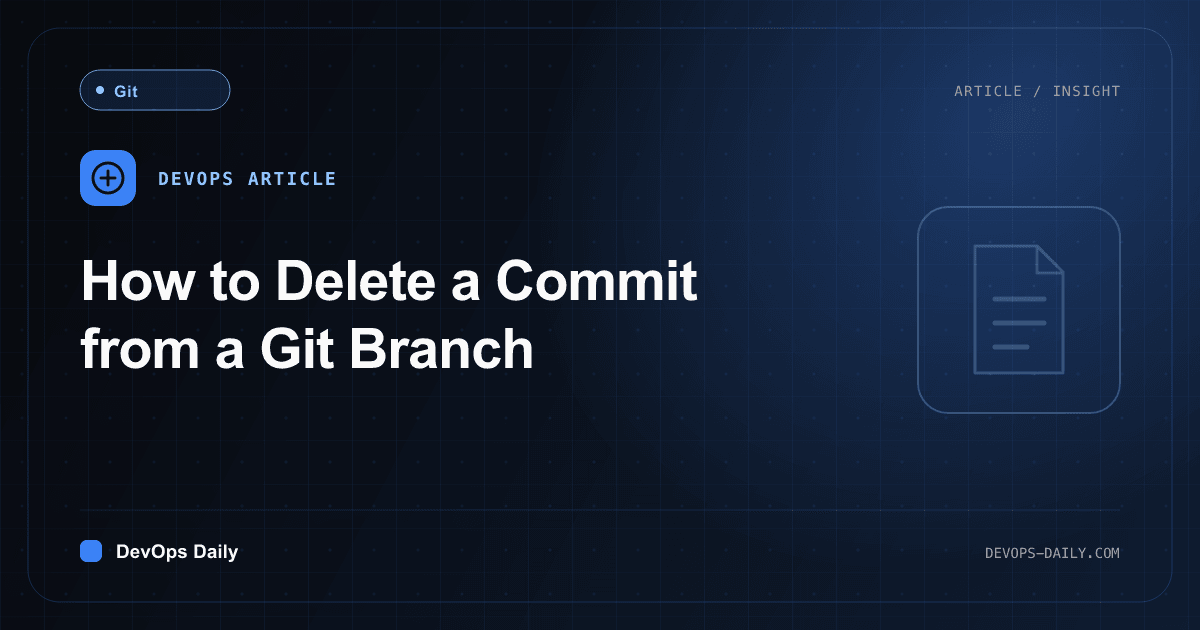
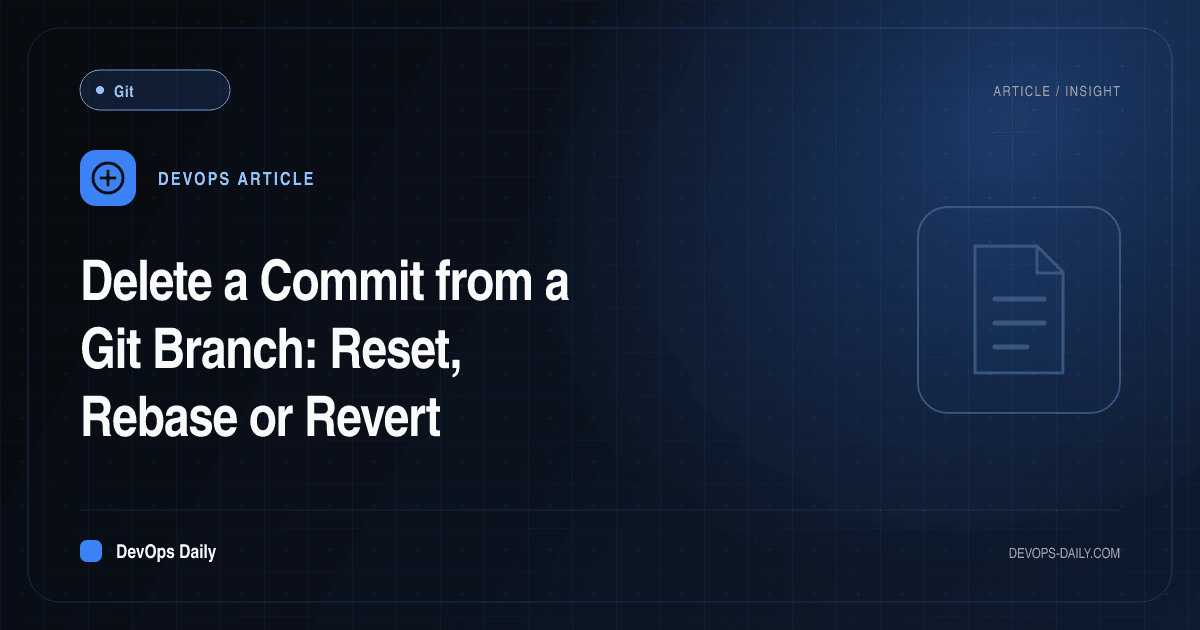
Answer-first titles and descriptions for low-click pages, and more internal links on top pages
Pages that rank on Bing at positions 4 to 8 but get under 1% clicks now say the
answer (the command or the verdict) in the title, the meta description and the
first paragraph. Comparisons get an optional seoTitle and relatedLinks. The
deployment strategies guide opens with the answer and its trade-off table, and
the top pages link to related posts, comparisons and simulators.

Claude-Session: https://claude.ai/code/session_01FRYkaYp9vFJjWBjAQdjnQ4

diff --git a/components/comparisons/comparison-page-client.tsx b/components/comparisons/comparison-page-client.tsx
@@ -1,5 +1,6 @@
 'use client';
 
+import Link from 'next/link';
 import { Badge } from '@/components/ui/badge';
 import { Card, CardContent, CardHeader, CardTitle } from '@/components/ui/card';
 import { Breadcrumb } from '@/components/breadcrumb';
@@ -121,6 +122,20 @@ export function ComparisonPageClient({ comparison, allComparisons }: ComparisonP
                 </p>
               ))}
             </div>
+            {comparison.relatedLinks && comparison.relatedLinks.length > 0 && (
+              <div className="mt-2 rounded-md border bg-card p-4">
+                <p className="text-sm font-medium text-foreground mb-2">Related on DevOps Daily</p>
+                <ul className="space-y-1 text-sm">
+                  {comparison.relatedLinks.map((link) => (
+                    <li key={link.href}>
+                      <Link href={link.href} className="text-primary hover:underline">
+                        {link.label}
+                      </Link>
+                    </li>
+                  ))}
+                </ul>
+              </div>
+            )}
           </section>
 
           {/* Section 4: Feature Comparison Table */}

diff --git a/lib/comparison-types.ts b/lib/comparison-types.ts
@@ -47,6 +47,8 @@ export interface Comparison {
   id: string;
   slug: string;
   title: string;
+  /** Search result title, when it should differ from the default "A vs B: Feature Comparison..." one. */
+  seoTitle?: string;
   description: string;
   category: string;
   tags: string[];
@@ -62,6 +64,8 @@ export interface Comparison {
   decisionMatrix: DecisionMatrixItem[];
   verdict: Verdict;
   relatedTags: string[];
+  /** Hand-picked links to related posts and simulators, shown after the introduction. */
+  relatedLinks?: { label: string; href: string }[];
   /** Campaign id on go.devops-daily.com for a comparison written for a sponsor. Counts views in the sponsor report. */
   sponsorCampaign?: string;
 }

diff --git a/app/comparisons/[slug]/page.tsx b/app/comparisons/[slug]/page.tsx
@@ -30,7 +30,9 @@ export async function generateMetadata({
 
   return detailPageMetadata({
     path: `/comparisons/${comparison.slug}`,
-    title: `${comparison.toolA.name} vs ${comparison.toolB.name}: Feature Comparison, Pros/Cons, and Verdict`,
+    title:
+      comparison.seoTitle ??
+      `${comparison.toolA.name} vs ${comparison.toolB.name}: Feature Comparison, Pros/Cons, and Verdict`,
     description: truncateMetaDescription(comparison.description),
     image: `/images/comparisons/${comparison.slug}-og.png`,
     imageAlt: `${comparison.toolA.name} vs ${comparison.toolB.name}`,

diff --git a/content/posts/deployment-strategies-guide.md b/content/posts/deployment-strategies-guide.md
@@ -6,7 +6,7 @@ category:
   slug: 'devops'
 date: '2025-11-17'
 publishedAt: '2025-11-17T09:00:00Z'
-updatedAt: '2026-09-27T09:00:00Z'
+updatedAt: '2026-10-11T09:00:00Z'
 readingTime: '12 min read'
 author:
   name: 'DevOps Daily Team'
@@ -23,11 +23,7 @@ tags:
   - Docker
 ---
 
-Deploying a new version of your application shouldn't feel like jumping off a cliff. Yet for many teams, every deployment brings anxiety: Will the new version work? What if users encounter bugs? How quickly can we roll back if something goes wrong?
-
-The way you deploy your application matters just as much as what you deploy. Different deployment strategies offer varying levels of risk, speed, and resource requirements. Some let you switch between versions instantly, while others gradually introduce changes to minimize impact. Understanding these strategies helps you choose the right approach for your specific needs.
-
-**TLDR**: This guide covers three core deployment strategies. Blue-green deployments run two identical environments and switch traffic between them for instant rollbacks. Canary deployments gradually roll out changes to a small subset of users before full deployment. Rolling deployments update instances one at a time to maintain availability throughout the process. Each strategy has distinct trade-offs in terms of cost, complexity, and risk mitigation.
+The three main deployment strategies are **blue-green**, **canary** and **rolling**. Blue-green runs two identical environments and switches all traffic at once, so rollback is instant. Canary sends a small share of traffic to the new version first and raises it step by step. Rolling replaces instances a few at a time. They differ in rollback speed, extra capacity and how many users a bad release reaches:
 
 | Trade-off                   | Blue-green                                                         | Canary                                                                       | Rolling                                                |
 | --------------------------- | ------------------------------------------------------------------ | ---------------------------------------------------------------------------- | ------------------------------------------------------ |
@@ -37,7 +33,15 @@ The way you deploy your application matters just as much as what you deploy. Dif
 | Users a bad release reaches | Everyone, until you switch back                                    | Only the canary share                                                        | The share of traffic on updated instances              |
 | What it needs               | A traffic switch, and database changes both versions can use       | Traffic splitting and metrics split by version                               | Old and new versions that can run side by side         |
 
-To watch each strategy route traffic and roll back, try the [Deployment Strategies Simulator](/games/deployment-strategies).
+:::tip
+Try it in the simulator: the [Deployment Strategies Simulator](/games/deployment-strategies) routes traffic with each strategy and lets you roll back a bad release.
+:::
+
+Deploying a new version of your application shouldn't feel like jumping off a cliff. Yet for many teams, every deployment brings anxiety: Will the new version work? What if users encounter bugs? How quickly can we roll back if something goes wrong?
+
+The way you deploy your application matters just as much as what you deploy. Different deployment strategies offer varying levels of risk, speed, and resource requirements. Some let you switch between versions instantly, while others gradually introduce changes to minimize impact. Understanding these strategies helps you choose the right approach for your specific needs.
+
+For a head-to-head on the two most common choices, see [blue-green vs canary deployments](/comparisons/blue-green-vs-canary-deployments). To decouple releasing a feature from deploying it, see [progressive delivery with feature flags](/posts/how-to-implement-progressive-delivery-with-feature-flags), and to practice explaining a rollback plan in an interview, try [this rollback strategy question](/interview-questions/senior/progressive-delivery-rollback-strategy).
 
 ## Why Deployment Strategy Matters
 

diff --git a/content/posts/undo-git-rebase.md b/content/posts/undo-git-rebase.md
@@ -1,12 +1,12 @@
 ---
-title: 'How to Undo a Git Rebase'
-excerpt: 'Rebase went wrong? Learn how to undo a Git rebase using reflog and reset commands to recover your branch to its state before the rebase operation.'
+title: 'How to Undo a Git Rebase with ORIG_HEAD or reflog'
+excerpt: 'Just rebased? git reset --hard ORIG_HEAD restores the branch. Later, find the old commit in git reflog and reset to it. Mid-rebase: git rebase --abort.'
 category:
   name: 'Git'
   slug: 'git'
 date: '2024-10-28'
 publishedAt: '2024-10-28T14:00:00Z'
-updatedAt: '2025-11-23T09:00:00Z'
+updatedAt: '2026-10-11T09:00:00Z'
 readingTime: '6 min read'
 author:
   name: 'DevOps Daily Team'
@@ -19,9 +19,9 @@ tags:
   - Troubleshooting
 ---
 
-A rebase operation rewrites your commit history, and sometimes it does not go as planned. You might end up with conflicts you cannot resolve, lose commits you wanted to keep, or simply realize you rebased the wrong branch. The good news is that Git keeps track of your branch's previous state, making it possible to undo a rebase.
+**TLDR:** Right after a rebase, `git reset --hard ORIG_HEAD` puts your branch back where it was, because Git saves the pre-rebase tip in `ORIG_HEAD`. If you have run other commands since, use `git reflog` to find the commit hash before the rebase started (look for the entry right before the rebase), then run `git reset --hard <commit-hash>` to restore your branch to that state. If you're in the middle of a rebase, use `git rebase --abort` instead.
 
-**TLDR:** To undo a rebase, use `git reflog` to find the commit hash before the rebase started (look for the entry right before the rebase), then run `git reset --hard <commit-hash>` to restore your branch to that state. If you're in the middle of a rebase, use `git rebase --abort` instead.
+A rebase operation rewrites your commit history, and sometimes it does not go as planned. You might end up with conflicts you cannot resolve, lose commits you wanted to keep, or simply realize you rebased the wrong branch. The good news is that Git keeps track of your branch's previous state, making it possible to undo a rebase.
 
 In this guide, you'll learn how to safely undo rebases and recover your repository to its previous state.
 
@@ -85,7 +85,14 @@ To undo the rebase, you want to reset to the state before it started. In the exa
 
 ## Undoing a Completed Rebase
 
-After you've finished a rebase, use the reflog to find where your branch was before:
+If the rebase just finished and you have not run anything else since, the quickest undo is `ORIG_HEAD`. Git sets it to the tip of your branch before the rebase started:
+
+```bash
+# Put the branch back exactly where it was before the rebase
+git reset --hard ORIG_HEAD
+```
+
+`ORIG_HEAD` is overwritten by other commands that move `HEAD` a long way, such as `git reset`, `git merge` or another rebase, so use it right away. In every other case, use the reflog to find where your branch was before:
 
 ```bash
 # View the reflog

diff --git a/content/posts/git-fetch-remote-branch.md b/content/posts/git-fetch-remote-branch.md
@@ -1,12 +1,12 @@
 ---
-title: 'How to Fetch a Remote Branch in Git'
-excerpt: 'Need to get a branch from the remote repository? Learn how to fetch remote branches and access them locally without merging or checking out.'
+title: 'Git Fetch a Remote Branch and Check It Out Locally'
+excerpt: 'Run git fetch origin branch-name, then git switch branch-name to get a local branch that tracks origin/branch-name. git fetch origin gets every branch.'
 category:
   name: 'Git'
   slug: 'git'
 date: '2024-10-20'
 publishedAt: '2024-10-20T13:00:00Z'
-updatedAt: '2025-11-23T09:00:00Z'
+updatedAt: '2026-10-11T09:00:00Z'
 readingTime: '5 min read'
 author:
   name: 'DevOps Daily Team'
@@ -19,9 +19,9 @@ tags:
   - Workflows
 ---
 
-Someone pushed a new branch to the remote repository and you want to get it locally. Or you need to update your local copy of remote branches without merging them into your work. Fetching lets you download branches without affecting your working directory.
+**TLDR:** To fetch all remote branches, use `git fetch origin`. To fetch a specific branch, use `git fetch origin branch-name`. After fetching, create a local tracking branch with `git switch branch-name` (or `git checkout branch-name` on Git older than 2.23) or view the remote branch with `git log origin/branch-name`. Fetching downloads the branches but does not merge them into your current work.
 
-**TLDR:** To fetch all remote branches, use `git fetch origin`. To fetch a specific branch, use `git fetch origin branch-name`. After fetching, create a local branch with `git checkout branch-name` or view the remote branch with `git log origin/branch-name`. Fetching downloads the branches but does not merge them into your current work.
+Someone pushed a new branch to the remote repository and you want to get it locally. Or you need to update your local copy of remote branches without merging them into your work. Fetching lets you download branches without affecting your working directory.
 
 In this guide, you'll learn how to fetch and work with remote branches.
 

diff --git a/content/posts/remove-git-submodule.md b/content/posts/remove-git-submodule.md
@@ -1,12 +1,12 @@
 ---
-title: 'How to Remove a Git Submodule'
-excerpt: 'Need to remove a Git submodule from your repository? Learn the proper steps to cleanly delete submodules and avoid leaving behind configuration artifacts.'
+title: 'Remove a Git Submodule: The Three Commands You Need'
+excerpt: 'Run git submodule deinit -f path, git rm -f path and rm -rf .git/modules/path, then commit. That also clears the entries in .gitmodules and .git/config.'
 category:
   name: 'Git'
   slug: 'git'
 date: '2024-11-22'
 publishedAt: '2024-11-22T10:30:00Z'
-updatedAt: '2025-11-23T09:00:00Z'
+updatedAt: '2026-10-11T09:00:00Z'
 readingTime: '5 min read'
 author:
   name: 'DevOps Daily Team'
@@ -19,9 +19,9 @@ tags:
   - Development
 ---
 
-Git submodules can become unnecessary as projects evolve. Maybe you've decided to copy the code directly into your repository, or you're switching to a different dependency management approach. Removing a submodule requires more than just deleting the directory.
+**TLDR:** To remove a Git submodule, run `git submodule deinit -f path/to/submodule`, then `git rm -f path/to/submodule`, then `rm -rf .git/modules/path/to/submodule`, and commit. `deinit` removes the entry from `.git/config`, `git rm` removes the folder and the entry in `.gitmodules`, and the last step deletes the submodule's stored Git data.
 
-**TLDR:** To remove a Git submodule, run `git submodule deinit -f path/to/submodule`, then `git rm -f path/to/submodule`, and finally remove the submodule entry from `.git/config` if it still exists. Commit the changes to complete the removal.
+Git submodules can become unnecessary as projects evolve. Maybe you've decided to copy the code directly into your repository, or you're switching to a different dependency management approach. Removing a submodule requires more than just deleting the directory.
 
 In this guide, you'll learn how to properly remove Git submodules and clean up all associated configuration.
 

diff --git a/content/posts/how-to-close-tcp-and-udp-ports-via-windows-command-line.md b/content/posts/how-to-close-tcp-and-udp-ports-via-windows-command-line.md
@@ -1,6 +1,6 @@
 ---
-title: 'How to Close TCP and UDP Ports via Windows Command Line'
-excerpt: 'Learn how to close open ports on Windows using command-line tools. Find and terminate processes listening on ports, manage Windows Firewall rules, and stop services to free up ports.'
+title: 'Close a Port on Windows from the Command Line'
+excerpt: 'Find the process with netstat -ano | findstr :PORT, then end it with taskkill /PID <pid> /F. To block the port instead, add a netsh advfirewall rule.'
 category:
   name: 'Networking'
   slug: 'networking'
@@ -19,13 +19,13 @@ tags:
   - Troubleshooting
 ---
 
-When a port is in use on Windows, you might need to close it to free it for another application, resolve conflicts, or improve security. Unlike Linux where you can directly kill processes bound to ports, Windows requires identifying the process first, then either stopping it or blocking the port via firewall rules.
-
-This guide shows you how to find what's using a port and close it using Windows command-line tools.
-
 ## TLDR
 
 Find the process using a port with `netstat -ano | findstr :PORT`, then kill it with `taskkill /PID <pid> /F`. To block a port with Windows Firewall, use `netsh advfirewall firewall add rule` to create a blocking rule. For services, use `net stop` or `sc stop` to stop the service listening on the port.
+
+When a port is in use on Windows, you might need to close it to free it for another application, resolve conflicts, or improve security. Unlike Linux where you can directly kill processes bound to ports, Windows requires identifying the process first, then either stopping it or blocking the port via firewall rules.
+
+This guide shows you how to find what's using a port and close it using Windows command-line tools.
 
 ## Prerequisites
 

diff --git a/content/posts/delete-commit-from-branch.md b/content/posts/delete-commit-from-branch.md
@@ -1,6 +1,6 @@
 ---
-title: 'How to Delete a Commit from a Git Branch'
-excerpt: 'Need to remove a specific commit from your Git branch? Learn how to delete commits using reset, rebase, and revert while preserving your repository history.'
+title: 'Delete a Commit from a Git Branch: Reset, Rebase or Revert'
+excerpt: 'Remove the last commit with git reset --hard HEAD~1, drop an older one with git rebase -i, or undo a pushed commit safely with git revert <commit-hash>.'
 category:
   name: 'Git'
   slug: 'git'
@@ -19,9 +19,9 @@ tags:
   - Development
 ---
 
-You've made a commit that needs to be removed from your branch. Maybe it contains sensitive information, introduces a bug, or simply does not belong in the history. Git provides several ways to delete commits depending on your situation.
-
 **TLDR:** To delete the most recent commit, use `git reset --hard HEAD~1`. To delete a specific commit from history, use `git rebase -i HEAD~n` (where n is the number of commits to go back), then mark the commit as "drop". If the commit is already pushed and shared, use `git revert <commit-hash>` instead to safely undo it.
+
+You've made a commit that needs to be removed from your branch. Maybe it contains sensitive information, introduces a bug, or simply does not belong in the history. Git provides several ways to delete commits depending on your situation.
 
 In this guide, you'll learn different methods to delete commits and when to use each approach.
 

diff --git a/content/posts/docker-compose-always-recreate-containers.md b/content/posts/docker-compose-always-recreate-containers.md
@@ -1,12 +1,12 @@
 ---
-title: 'How to Get docker-compose to Always Re-create Containers from Fresh Images'
-excerpt: 'Want to make sure docker-compose always uses the latest image and re-creates containers? Learn the right flags, workflow, and best practices to avoid stale containers in development and CI.'
+title: 'docker compose: Always Recreate Containers from Fresh Images'
+excerpt: 'Run docker compose up -d --pull always --build --force-recreate to pull newer images, rebuild local ones and replace containers instead of reusing them.'
 category:
   name: 'Docker'
   slug: 'docker'
 date: '2025-05-01'
 publishedAt: '2025-05-01T09:00:00Z'
-updatedAt: '2025-11-23T09:00:00Z'
+updatedAt: '2026-10-11T09:00:00Z'
 readingTime: '7 min read'
 author:
   name: 'DevOps Daily Team'
@@ -20,7 +20,7 @@ tags:
 
 ## TLDR
 
-To make docker-compose always re-create containers from fresh images, use `docker-compose pull` to get the latest images, then run `docker-compose up --force-recreate --build`. This ensures containers are rebuilt or replaced, not reused from cache.
+Run `docker compose up -d --pull always --build --force-recreate`. `--pull always` pulls newer images, `--build` rebuilds images from your Dockerfiles, and `--force-recreate` replaces every container instead of reusing it. With the older `docker-compose` v1 tool, run `docker-compose pull` first, then `docker-compose up --force-recreate --build`.
 
 ## Why Containers Might Not Be Re-created
 

diff --git a/content/posts/make-git-branch-track-remote.md b/content/posts/make-git-branch-track-remote.md
@@ -1,6 +1,6 @@
 ---
-title: 'How to Make an Existing Git Branch Track a Remote Branch'
-excerpt: 'Need to set up tracking between a local branch and a remote branch? Learn how to configure branch tracking for easier push and pull operations in Git.'
+title: 'Make an Existing Git Branch Track a Remote Branch'
+excerpt: 'Run git branch --set-upstream-to=origin/branch-name (short: git branch -u origin/branch-name). Not on the remote yet? Run git push -u origin branch-name.'
 category:
   name: 'Git'
   slug: 'git'
@@ -19,9 +19,9 @@ tags:
   - Workflows
 ---
 
-You created a local branch and pushed it to a remote repository, but now when you run `git pull` or `git push`, Git asks you to specify which remote branch to use. This happens because your local branch is not configured to track the remote branch.
-
 **TLDR:** To make your current branch track a remote branch, use `git branch --set-upstream-to=origin/branch-name` or `git push -u origin branch-name`. The `-u` flag sets up tracking automatically when pushing. Once configured, you can use `git pull` and `git push` without specifying the remote branch.
+
+You created a local branch and pushed it to a remote repository, but now when you run `git pull` or `git push`, Git asks you to specify which remote branch to use. This happens because your local branch is not configured to track the remote branch.
 
 In this guide, you'll learn how to set up branch tracking and understand what it does.
 

diff --git a/content/posts/see-differences-between-branches-git.md b/content/posts/see-differences-between-branches-git.md
@@ -1,6 +1,6 @@
 ---
-title: 'How to See the Differences Between Two Branches in Git'
-excerpt: 'Need to compare branches before merging? Learn how to view differences between Git branches using diff, log, and other comparison commands.'
+title: 'Git Diff Between Two Branches: Files, Commits and Stats'
+excerpt: 'git diff main..feature shows changed lines, git log main..feature lists commits main does not have, and git diff --stat main feature sums it up per file.'
 category:
   name: 'Git'
   slug: 'git'
@@ -19,9 +19,9 @@ tags:
   - Version Control
 ---
 
-Before merging a feature branch, reviewing a pull request, or understanding what changed between releases, you need to see what differs between two branches. Git provides several commands to compare branches at different levels of detail.
-
 **TLDR:** To see differences between branches, use `git diff branch1..branch2` to show file changes, `git log branch1..branch2` to show commit differences, or `git diff --name-only branch1 branch2` to list changed filenames. The two-dot syntax (`..`) shows differences, while three-dot (`...`) shows changes since the branches diverged.
+
+Before merging a feature branch, reviewing a pull request, or understanding what changed between releases, you need to see what differs between two branches. Git provides several commands to compare branches at different levels of detail.
 
 In this guide, you'll learn how to compare branches effectively in Git.
 
